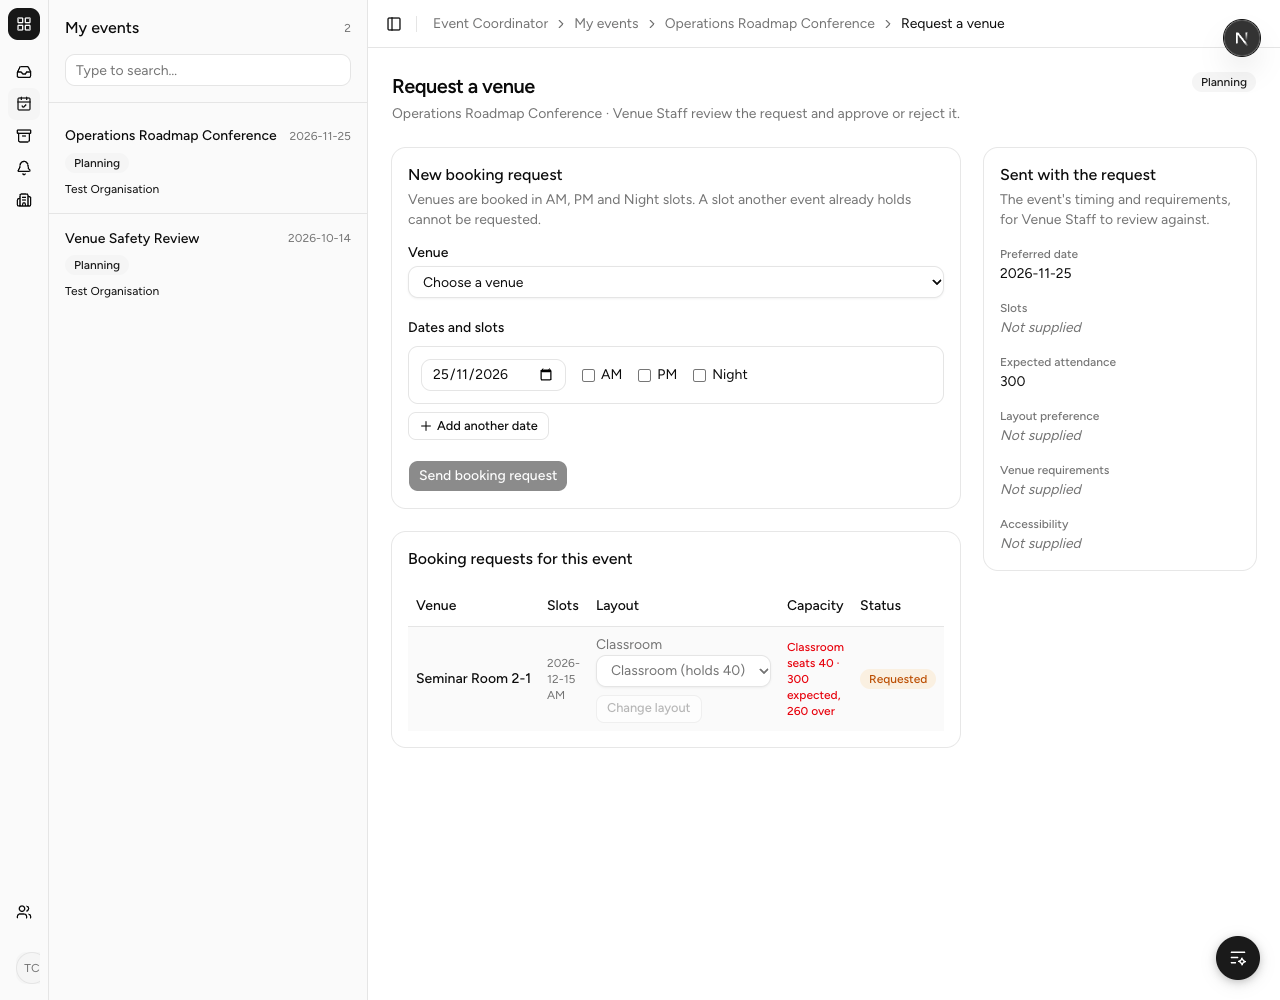
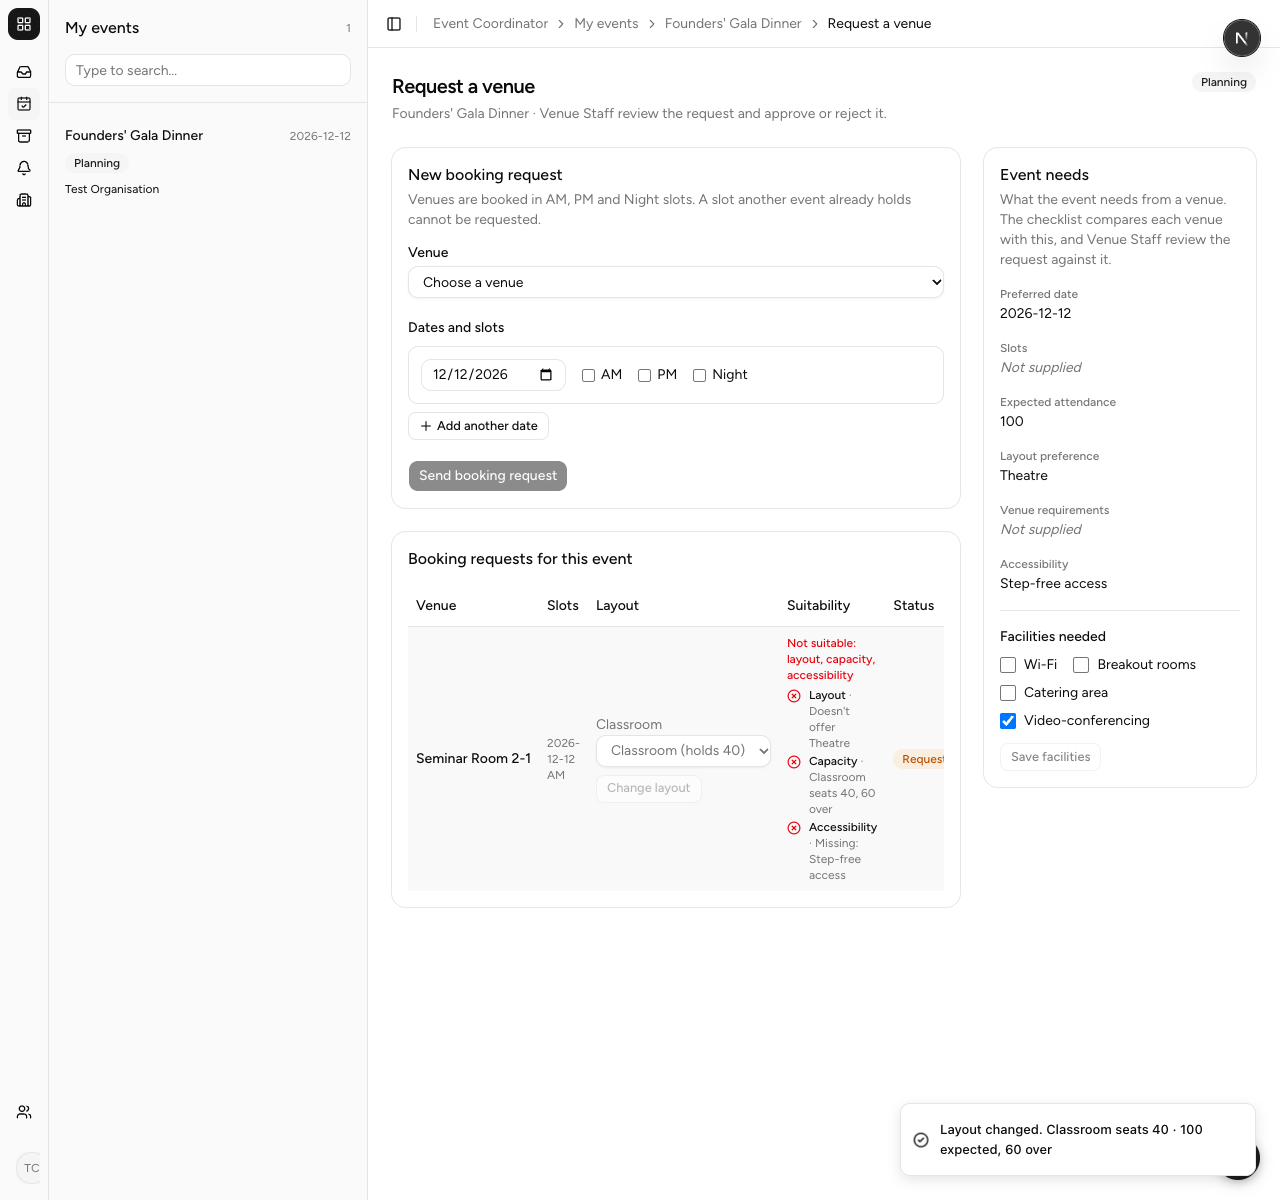
docs(testing): add and run the venue suitability cases

diff --git a/docs/testing/VENUE_BOOKING_MANUAL_TESTS.md b/docs/testing/VENUE_BOOKING_MANUAL_TESTS.md
@@ -1,4 +1,4 @@
-# Venue Booking Request Manual Tests (SPM-46, SPM-104)
+# Venue Booking Request Manual Tests (SPM-46, SPM-104, SPM-45)
 
 ## Overview
 
@@ -6,7 +6,7 @@ Browser checks for the coordinator's **Request a venue** page. The rules behind
 it (layout choice, slot clashes, who may book) are covered by automated tests;
 these cases check the page itself, end to end against Supabase.
 
-They are registered as `TC-VENUE-BOOK-001`–`TC-VENUE-BOOK-006` in
+They are registered as `TC-VENUE-BOOK-001`–`TC-VENUE-BOOK-018` in
 [`../tests/manual-registry.csv`](../tests/manual-registry.csv). When you run
 them, tick the boxes below **and** report each in the PR description's
 `## Manual test results` table — CI records it in
@@ -25,6 +25,22 @@ The seeded venues: **Main Hall** (Theatre, Banquet, Classroom), **Seminar Room
 2-1** (Classroom, Boardroom), **Studio** (Theatre only), **Rooftop Terrace**
 (Banquet, Exhibition).
 
+**For TC-VENUE-BOOK-010 to 018 (SPM-45)** the event's needs must be known. Load the
+equipment seed, which opens the *Founders' Gala Dinner* event
+(`supabase db query --file scripts/seed-equipment/seed.sql --local`), open it from
+*My events* and choose **Request a venue**. Each case says which of these it starts
+from; run this once to reset the event to the base fixture:
+
+```sql
+update event set expected_attendance = 50, room_layout_preference = 'Theatre',
+  accessibility_requirements = 'Step-free access', required_facilities = 'Video-conferencing'
+ where name = 'Founders'' Gala Dinner';
+delete from booking where event_id = (select event_id from event where name = 'Founders'' Gala Dinner');
+```
+
+All six venues of the Single Source of Truth need `seed-venue-search-uat` as well; these
+cases only use the four above.
+
 ## Cases
 
 ### TC-VENUE-BOOK-001 Reach the page from an approved event
@@ -36,20 +52,24 @@ The seeded venues: **Main Hall** (Theatre, Banquet, Classroom), **Seminar Room
 
 ### TC-VENUE-BOOK-002 Submit a request with a chosen layout
 
-- [ ] Choose **Main Hall**. A layout choice appears with three options and
+- [x] Choose **Main Hall**. A layout choice appears with three options and
       their capacities; **Send booking request** stays disabled until one is
       picked and at least one slot is ticked.
-- [ ] Pick **Banquet**, tick **AM** and **PM** on the preferred date, add a
+- [x] Pick **Banquet**, tick **AM** and **PM** on the preferred date, add a
       second date with **Night**, and send.
-- [ ] A confirmation names Main Hall; the form clears; the request appears in
+- [x] A confirmation names Main Hall; the form clears; the request appears in
       *Booking requests for this event* as **Requested**, with Banquet and
       the three slots.
 
+**Run:** Pass, 9/10/2026, run in Chrome via Playwright for JameszLau. Screenshots: [step2-request-sent](../screenshots/2026-10-09_TC-VENUE-BOOK-002_step2-request-sent.png)
+
 ### TC-VENUE-BOOK-003 A single-layout venue takes its layout
 
-- [ ] Choose **Studio**. No choice is offered; the page says Theatre is the
+- [x] Choose **Studio**. No choice is offered; the page says Theatre is the
       only layout.
-- [ ] Send one slot. The new row shows **Theatre**.
+- [x] Send one slot. The new row shows **Theatre**.
+
+**Run:** Pass, 9/10/2026, run in Chrome via Playwright for JameszLau. Screenshots: [step1-single-layout](../screenshots/2026-10-09_TC-VENUE-BOOK-003_step1-single-layout.png)
 
 ### TC-VENUE-BOOK-004 A venue with no layouts
 
@@ -68,25 +88,31 @@ The seeded venues: **Main Hall** (Theatre, Banquet, Classroom), **Seminar Room
 
 ### TC-VENUE-BOOK-006 Another coordinator cannot reach the page
 
-- [ ] Sign in as anyone who is not this event's coordinator and open
+- [x] Sign in as anyone who is not this event's coordinator and open
       `/staff/coordinator/<request id>/venue-booking` directly. It shows
       the access-denied screen naming the Event Coordinator, with a 403
       (SPM-16), and none of the event's details.
+
+**Run:** Pass, 9/10/2026, run in Chrome via Playwright for JameszLau. Screenshots: [step1-denied](../screenshots/2026-10-09_TC-VENUE-BOOK-006_step1-denied.png)
 
 ### TC-VENUE-BOOK-007 The page checks the event against the chosen layout (SPM-104)
 
 Needs an approved event with an expected attendance (for example 100) on the
 right-hand card.
 
-- [x] Choose **Seminar Room 2-1** and pick **Boardroom**. A line under the
-      layouts reads like *Boardroom seats 20 · 100 expected, 80 over*, in red.
-- [x] Pick **Classroom** instead. The line follows the layout picked, using
+- [x] Choose **Seminar Room 2-1** and pick **Boardroom**. The checklist under the
+      layouts has a **Capacity** row reading like *Boardroom seats 24, 76 over*, with a red
+      cross (SPM-45 folded the capacity line into the checklist).
+- [x] Pick **Classroom** instead. The Capacity row follows the layout picked, using
       Classroom's own seats, not the venue-wide figure.
 - [x] Choose **Main Hall** and **Theatre** (seats more than the attendance). The
-      line says the event fits, and is not red.
+      Capacity row says the event fits, with a green tick.
 - [x] Send a request for an over-capacity layout. It is **not** blocked (the
       team has not decided between block and warn, SPM-107); the new row in
-      *Booking requests for this event* shows the same red capacity line.
+      *Booking requests for this event* shows *Not suitable*, including *Capacity · Boardroom seats 24, 76 over*
+      (this room also lacks the Theatre layout and Step-free access, which the event's fixture needs).
+
+**Run:** Pass, 9/10/2026, run in Chrome via Playwright for JameszLau. Screenshots: [step1-boardroom-over](../screenshots/2026-10-09_TC-VENUE-BOOK-007_step1-boardroom-over.png) · [step3-main-hall-fits](../screenshots/2026-10-09_TC-VENUE-BOOK-007_step3-main-hall-fits.png) · [step4-over-capacity-sent](../screenshots/2026-10-09_TC-VENUE-BOOK-007_step4-over-capacity-sent.png)
 
 ### TC-VENUE-BOOK-008 Change the layout of a pending request (SPM-104)
 
@@ -94,14 +120,14 @@ right-hand card.
       and **Change layout** button appear. The button is disabled until a
       different layout is picked.
 - [x] Change **Boardroom** to **Classroom** and save. The row shows
-      **Classroom**, the capacity line is re-checked against Classroom, and a
-      confirmation repeats it.
+      **Classroom**, its Suitability is re-worked out against Classroom's seats, and a
+      confirmation repeats the capacity.
 - [x] A venue with only one layout (Studio) shows no picker on its row.
 - [x] `select * from audit_record where entity_type = 'booking' order by
       occurred_at desc limit 1` shows `field_changed = 'room_layout'` with the
       old and new layout names.
 
-**Run:** Pass, 9/10/2026, run in Chrome via Playwright for JameszLau. Screenshots: [step1-picker-and-disabled-button](../screenshots/2026-10-09_TC-VENUE-BOOK-008_step1-picker-and-disabled-button.png) · [step2-changed-to-classroom](../screenshots/2026-10-09_TC-VENUE-BOOK-008_step2-changed-to-classroom.png) · [step3-studio-has-no-picker](../screenshots/2026-10-09_TC-VENUE-BOOK-008_step3-studio-has-no-picker.png)
+**Run:** Pass, 9/10/2026, run in Chrome via Playwright for JameszLau. Screenshots: [step1-picker-and-disabled-button](../screenshots/2026-10-09_TC-VENUE-BOOK-008_step1-picker-and-disabled-button.png) · [step2-changed-to-classroom](../screenshots/2026-10-09_TC-VENUE-BOOK-008_step2-changed-to-classroom.png) · [step3-studio-has-no-picker](../screenshots/2026-10-09_TC-VENUE-BOOK-008_step3-studio-has-no-picker.png) · [step3-studio-no-picker](../screenshots/2026-10-09_TC-VENUE-BOOK-008_step3-studio-no-picker.png)
 
 ### TC-VENUE-BOOK-009 A layout can no longer change once Venue Staff answer (SPM-104)
 
@@ -112,3 +138,105 @@ right-hand card.
       layout** on the stale page. The page answers that the layout can only be
       changed while the request is waiting for Venue Staff, and the layout is
       unchanged.
+
+## SPM-45: is the venue suitable for the event?
+
+Start each case from the base fixture above unless it says otherwise. The checklist only
+advises: none of these cases stops a request being sent (AC3).
+
+### TC-VENUE-BOOK-010 The event's needs, and recording its facilities (AC1, AC2)
+
+- [x] The **Event needs** card shows the expected attendance (50), layout preference (Theatre),
+      accessibility (Step-free access) and the Organiser's venue requirements.
+- [x] **Facilities needed** offers exactly Wi-Fi, Breakout rooms, Catering area and
+      Video-conferencing as checkboxes, with only Video-conferencing ticked. Projector and PA system
+      are not offered. **Save facilities** is disabled until something changes.
+- [x] Tick **Wi-Fi** and save. "Facilities saved." appears; after a reload both stay ticked.
+      `select required_facilities from event where name = 'Founders'' Gala Dinner'` reads
+      `Wi-Fi, Video-conferencing`, and `audit_record` has a row `required_facilities` from
+      `Video-conferencing` to `Wi-Fi, Video-conferencing`.
+- [x] Untick everything and save: the field is empty again, with an audit row.
+- [x] Set the event `Completed` by hand: the card shows the facilities as text, with no form.
+      Put it back to `Planning`.
+
+**Run:** Pass, 9/10/2026, run in Chrome via Playwright for JameszLau. Screenshots: [step1-event-needs-card](../screenshots/2026-10-09_TC-VENUE-BOOK-010_step1-event-needs-card.png) · [step3-saved](../screenshots/2026-10-09_TC-VENUE-BOOK-010_step3-saved.png) · [step5-completed-read-only](../screenshots/2026-10-09_TC-VENUE-BOOK-010_step5-completed-read-only.png)
+
+### TC-VENUE-BOOK-011 A venue that fits the event is Suitable (AC3, AC7)
+
+- [x] Choose **Studio**. The only layout is Theatre, so the checklist appears straight away,
+      reading **Suitable**: Layout *Offers Theatre*; Capacity *Theatre seats 60 · fits the 50
+      expected*; Accessibility *Has Step-free access*; Facilities *Has Video-conferencing*.
+- [x] **Send booking request** enables once a slot is ticked.
+
+**Run:** Pass, 9/10/2026, run in Chrome via Playwright for JameszLau. Screenshots: [step1-studio-suitable](../screenshots/2026-10-09_TC-VENUE-BOOK-011_step1-studio-suitable.png)
+
+### TC-VENUE-BOOK-012 A missing facility makes it Not suitable, and does not block (AC3, AC6, AC7)
+
+- [x] Choose **Main Hall** and **Theatre**. The checklist reads *Not suitable: facilities*:
+      Facilities *Missing: Video-conferencing*, the other three rows fit.
+- [x] Tick a slot and send. The request is **not** blocked, and its row in *Booking requests for this
+      event* reads *Not suitable: facilities* with *Facilities · Missing: Video-conferencing*.
+
+**Run:** Pass, 9/10/2026, run in Chrome via Playwright for JameszLau. Screenshots: [step1-main-hall-not-suitable](../screenshots/2026-10-09_TC-VENUE-BOOK-012_step1-main-hall-not-suitable.png) · [step2-request-sent-row](../screenshots/2026-10-09_TC-VENUE-BOOK-012_step2-request-sent-row.png)
+
+### TC-VENUE-BOOK-013 A missing accessibility feature makes it Not suitable (AC6, AC7)
+
+Set the event to need Classroom, 30 people, Step-free access and Video-conferencing:
+
+```sql
+update event set expected_attendance = 30, room_layout_preference = 'Classroom'
+ where name = 'Founders'' Gala Dinner';
+```
+
+- [x] Choose **Seminar Room 2-1** and **Classroom**. The checklist reads *Not suitable: accessibility*:
+      Accessibility *Missing: Step-free access* (the room has Lift access), the other three rows fit.
+
+**Run:** Pass, 9/10/2026, run in Chrome via Playwright for JameszLau. Screenshots: [step1-seminar-room-accessibility](../screenshots/2026-10-09_TC-VENUE-BOOK-013_step1-seminar-room-accessibility.png)
+
+### TC-VENUE-BOOK-014 Capacity is checked on the layout, at the boundary (AC5)
+
+- [x] **Studio**, 60 expected (`update event set expected_attendance = 60 …`): Capacity reads *Theatre seats
+      60 · fits the 60 expected*, with a green tick.
+- [x] 61 expected: Capacity reads *Theatre seats 60, 1 over*, with a red cross.
+- [x] **Main Hall**, 200 expected: **Theatre** (seats 300) fits; **Banquet** reads *Banquet seats 180, 20 over*,
+      although the hall holds 300 in all.
+
+**Run:** Pass, 9/10/2026, run in Chrome via Playwright for JameszLau. Screenshots: [step1-exactly-at-capacity](../screenshots/2026-10-09_TC-VENUE-BOOK-014_step1-exactly-at-capacity.png) · [step2-one-over](../screenshots/2026-10-09_TC-VENUE-BOOK-014_step2-one-over.png) · [step3-banquet-20-over](../screenshots/2026-10-09_TC-VENUE-BOOK-014_step3-banquet-20-over.png)
+
+### TC-VENUE-BOOK-015 Check incomplete when something is not known yet (AC5, AC7)
+
+- [x] With no expected attendance (`update event set expected_attendance = null …`), **Studio** reads
+      *Check incomplete*: Capacity *Not known yet*, the other rows fit.
+- [x] With no layout preference (`room_layout_preference = null`) and attendance 50, **Studio**'s Layout row
+      reads *Not stated*, with neither tick nor cross, and the verdict is *Check incomplete*.
+
+**Run:** Pass, 9/10/2026, run in Chrome via Playwright for JameszLau. Screenshots: [step1-no-attendance](../screenshots/2026-10-09_TC-VENUE-BOOK-015_step1-no-attendance.png) · [step2-no-layout-preference](../screenshots/2026-10-09_TC-VENUE-BOOK-015_step2-no-layout-preference.png)
+
+### TC-VENUE-BOOK-016 A sent request is re-checked when the event changes (AC8)
+
+- [x] Send a request for **Studio** (attendance 50). Its row reads *Suitable*.
+- [x] Raise the attendance by hand (`update event set expected_attendance = 80 …`) and re-open the page. The
+      same row reads *Not suitable: capacity* with *Capacity · Theatre seats 60, 20 over*.
+- [x] Add a facility the venue lacks (`required_facilities = 'Video-conferencing, Catering area'`) with
+      attendance back at 50: the row reads *Not suitable: facilities*.
+- [x] Put the needs back: the row reads *Suitable* again.
+
+**Run:** Pass, 9/10/2026, run in Chrome via Playwright for JameszLau. Screenshots: [step1-suitable](../screenshots/2026-10-09_TC-VENUE-BOOK-016_step1-suitable.png) · [step2-attendance-80](../screenshots/2026-10-09_TC-VENUE-BOOK-016_step2-attendance-80.png) · [step3-facility-added](../screenshots/2026-10-09_TC-VENUE-BOOK-016_step3-facility-added.png)
+
+### TC-VENUE-BOOK-017 A request that is over has no verdict (AC8)
+
+- [x] With a request sent for **Studio**, reject it by hand (`update booking set status = 'Rejected',
+      decided_by_user_account_id = requested_by_user_account_id where …`, as in TC-VENUE-BOOK-005, since
+      deciding is SPM-22) and re-open the page. Its Suitability cell reads **—**.
+- [x] A request still **Requested**, **Tentative Hold** or **Confirmed** keeps its verdict.
+
+**Run:** Pass, 9/10/2026, run in Chrome via Playwright for JameszLau. Screenshots: [step1-rejected-has-no-verdict](../screenshots/2026-10-09_TC-VENUE-BOOK-017_step1-rejected-has-no-verdict.png)
+
+### TC-VENUE-BOOK-018 Another coordinator sees nothing of it (AC9)
+
+- [x] Sign in as `coordinator2@test.com` and open `/staff/coordinator/<request id>/venue-booking` directly. It
+      answers exactly as it does for an event that does not exist (open
+      `/staff/coordinator/999999/venue-booking` to compare): the same access-denied screen with a 403, and no
+      checklist, no needs and no facilities form (SPM-16, #91).
+
+**Run:** Pass, 9/10/2026, run in Chrome via Playwright for JameszLau. Screenshots: [step1-access-denied](../screenshots/2026-10-09_TC-VENUE-BOOK-018_step1-access-denied.png)
